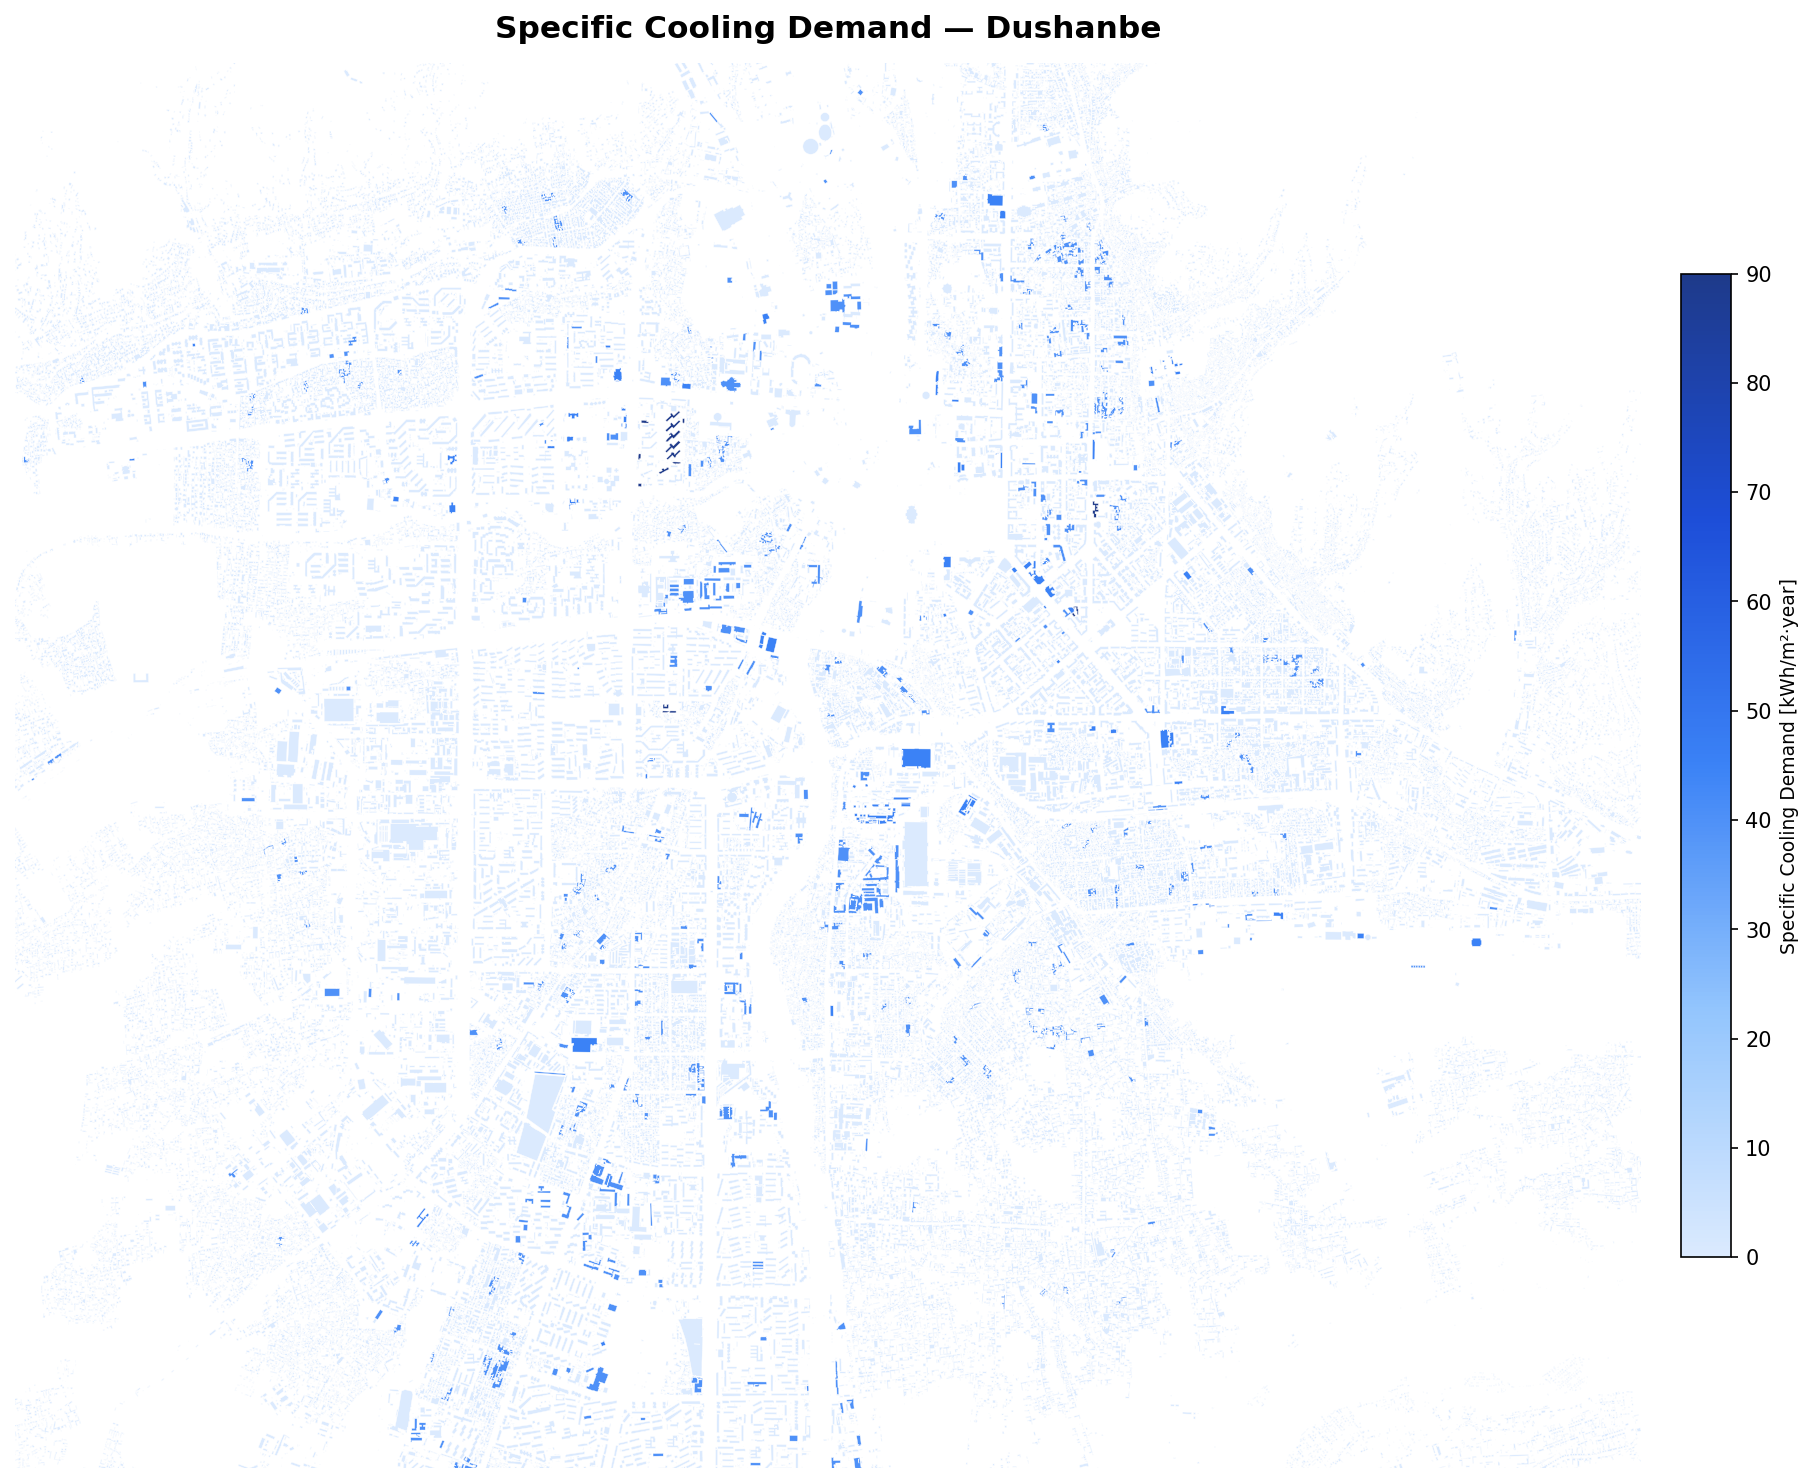
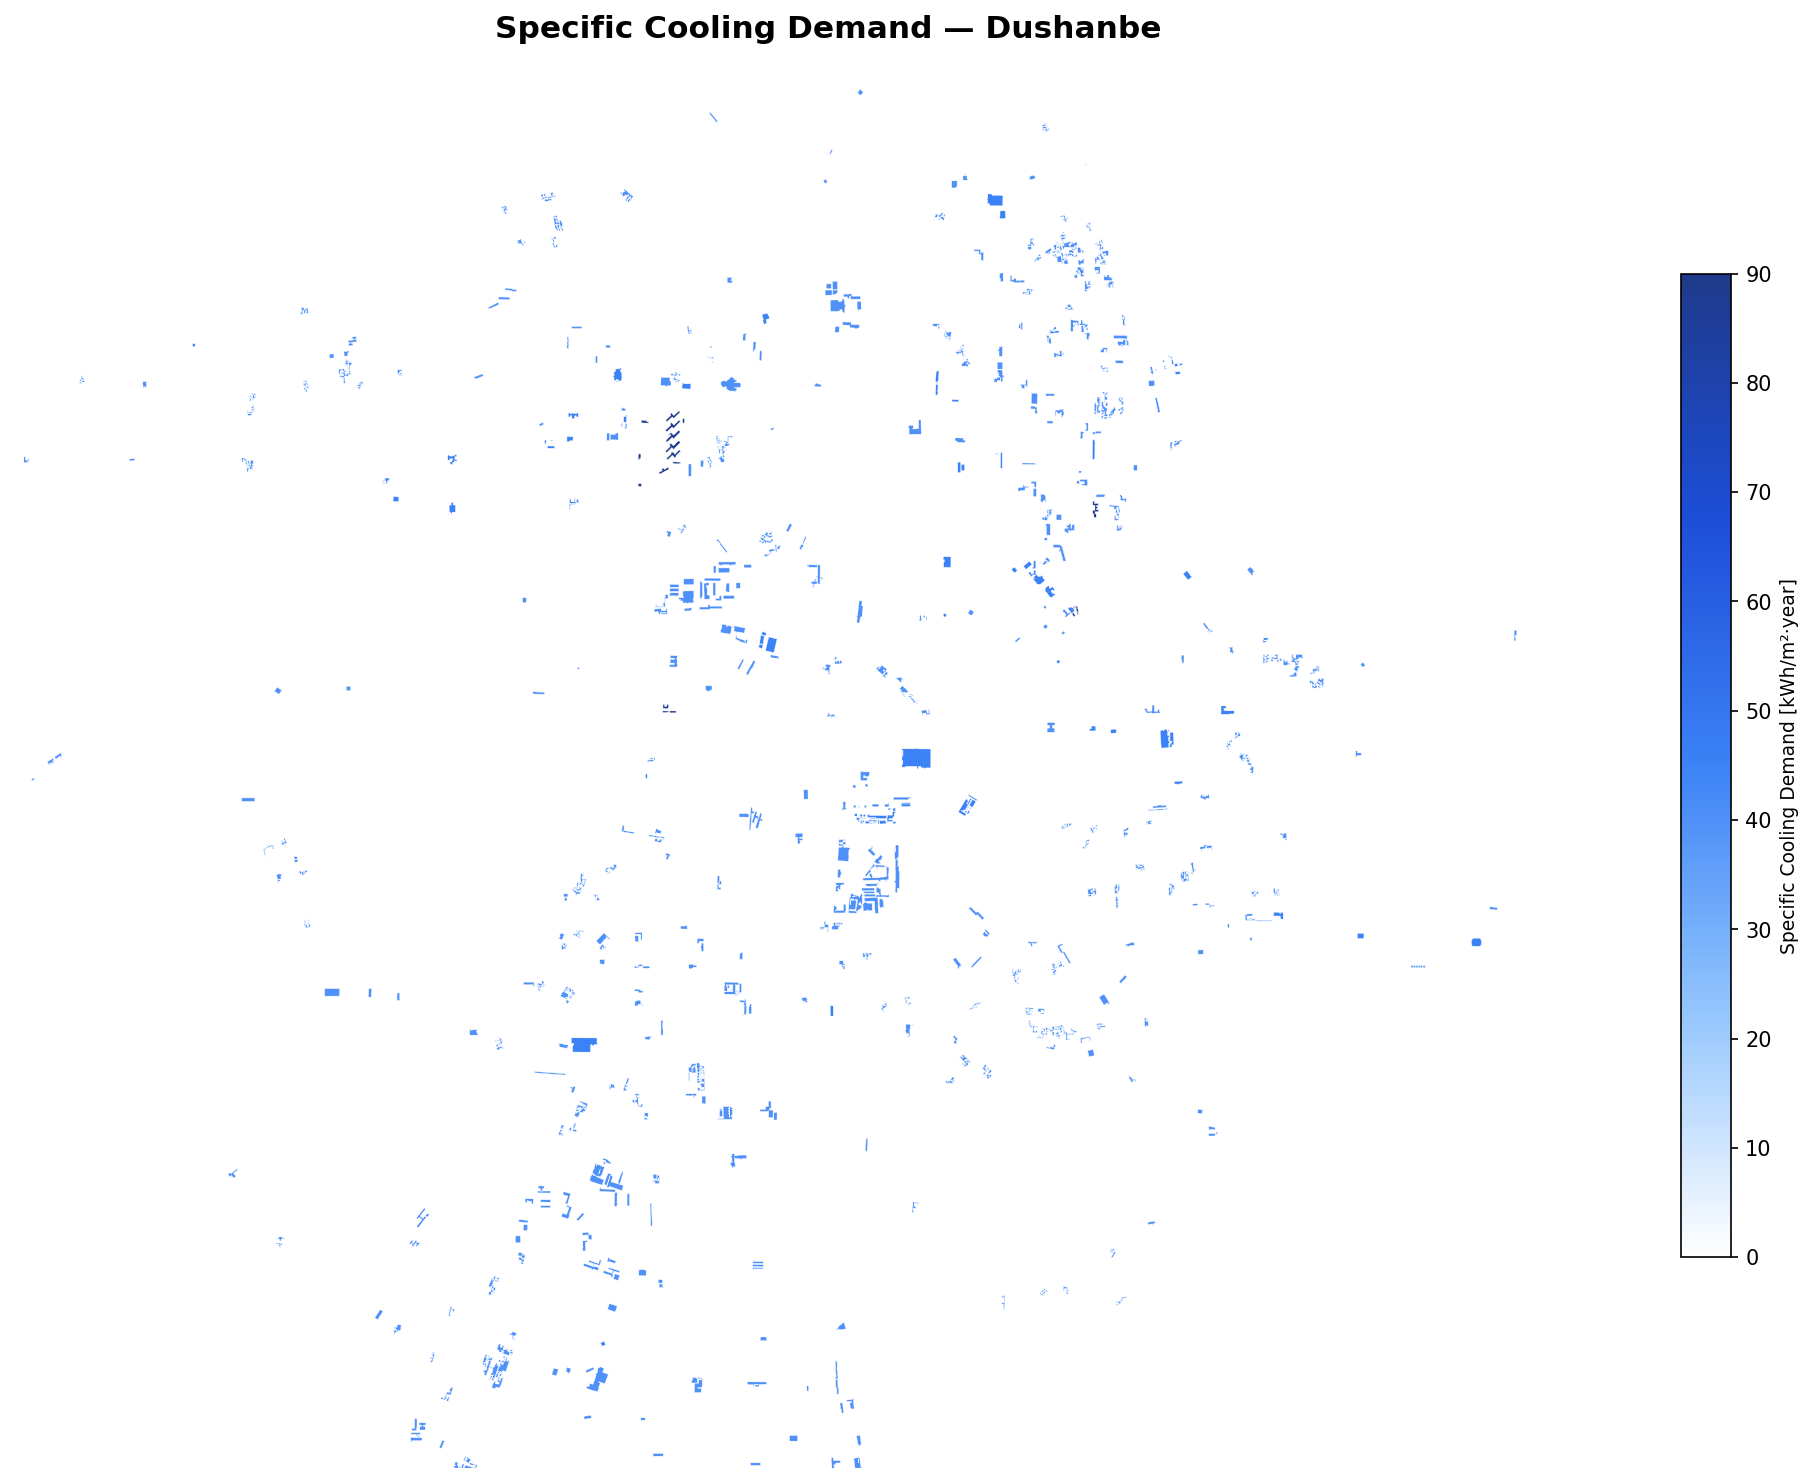
Set white as base colour for zero cooling demand in maps

diff --git a/maps_dushanbe.py b/maps_dushanbe.py
@@ -12,7 +12,7 @@ INPUT_FILE = os.path.join("Results", "Dushanbe_processed.gpkg")
 OUTPUT_DIR = "Results"
 
 HEATMAP_COLORS = ["#FFB347", "#E84000", "#C80000", "#9B0000", "#7F0000"]
-COOLMAP_COLORS = ["#dbeafe", "#93c5fd", "#3b82f6", "#1d4ed8", "#1e3a8a"]
+COOLMAP_COLORS = ["#ffffff", "#93c5fd", "#3b82f6", "#1d4ed8", "#1e3a8a"]
 HEATMAP_CMAP   = mcolors.LinearSegmentedColormap.from_list("orange_red", HEATMAP_COLORS)
 COOLMAP_CMAP   = mcolors.LinearSegmentedColormap.from_list("blue_cold",  COOLMAP_COLORS)
 
